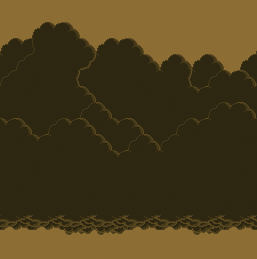
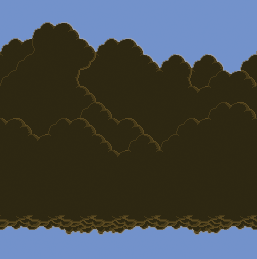
stage 01

diff --git a/app/styles/base.scss b/app/styles/base.scss
@@ -11,7 +11,7 @@ body
 body
 {
   overflow-x: hidden;
-  background: #7392cb;
+  background: rgb(220,160,40);
 }
 
 h1
@@ -32,36 +32,62 @@ h1
   left: 0;
 }
 
+.page {
+top: 0px;
+width: 500px;
+background: white;
+padding: 10px 30px;
+border: 1px #eee solid;
+position: absolute;
+}
+
 /**
   * z-index ordering of the different layers, do this for your layers,
   * also assign absolute width (to prevent issues if the script gets executed before the images get loaded)
   */
-.stage1{
 
-  .clouds
-  {
-    z-index: 2;
-    width: 1500px;
-    background: url('../images/clouds.gif') repeat-x top left;
+  .sky{
+    width: 3000px;
     top: 0;
-  }
+    .clouds{
+      z-index: 2;
+      width: 1500px;
+      height: 250px;
+      position: absolute;
+      border: none;
+    }
+    .clouds{
+      background: url('../images/clouds.png') repeat-x top left;
+      left: 0;
+      width: 3000px;
+    }
+    .sun{
+      background: url('../images/sun.png') no-repeat top left;
+      left: 30%;
+      z-index: 2;
+      width: 1000px;
+      height: 280px;
+      position: fixed;
+      border: none;
+      top: 0;
 
+    }
+  }
 
   .back-ground{
     z-index: 400;
-    width: 1500px;
-    background: url('../images/back-ground.png') repeat-x bottom left;
-    bottom: 0;
-    height: 263px;
+    width: 3200px;
+    background: url('../images/second-ground.png') repeat-x bottom left;
+    bottom: 100px;
+    height: 363px;
   }
-
 
   .second-ground{
     z-index: 500;
-    width: 2000px;
-    background: url('../images/second-ground.png') repeat-x bottom left;
-    bottom: 0;
-    height: 119px;
+    width: 3000px;
+    background: url('../images/mid-ground.png') repeat-x bottom left;
+    bottom: 100px;
+    height: 250px;
   }
 
   .floor{
@@ -69,62 +95,22 @@ h1
     width: 2500px;
     background: url('../images/floor.png') repeat-x top left;
     bottom: 0;
-    height: 160px;
+    height: 250px;
   }
 
-  .bowser{
-      z-index: 650;
-      bottom: 10px;
-      right: 150px;
-      width: 2350px;
-      img{
-          float: right;
-      }
-  }
+  .robotin{
+    width: 3000px;
+    bottom: 400px;
+    z-index: 650;
 
-}
+    .robot1{
+      width: 1200px;
+      height: 450px;
+      position: absolute;
+      right: -100px;
+      border: none;
 
+      background: url('../images/robotin_1.png') no-repeat top left;
+    }
 
-.stage2{
-  left: 6000px;
-  background: red;
-
-  .clouds
-  {
-    z-index: 2;
-    width: 1500px;
-    background: url('../images/clouds2.png') repeat-x top left;
-    top: 0;
-  }
-
-
-  .back-ground{
-    z-index: 400;
-    width: 1500px;
-    background: url('../images/back-ground2.png') repeat-x bottom left;
-    bottom: 0;
-    height: 263px;
-  }
-
-
-  .second-ground{
-    z-index: 500;
-    width: 2000px;
-    background: url('../images/second-ground2.png') repeat-x bottom left;
-    bottom: 0;
-    height: 119px;
-  }
-
-  .floor{
-    z-index: 600;
-    width: 2500px;
-    background: url('../images/floor2.png') repeat-x top left;
-    bottom: 0;
-    height: 160px;
-  }
-
-  
-  &.bowser2{
-      left: 50px;
-  }
 }

diff --git a/app/index.html b/app/index.html
@@ -21,23 +21,20 @@
         <!--[if lt IE 10]>
             <p class="browsehappy">You are using an <strong>outdated</strong> browser. Please <a href="http://browsehappy.com/">upgrade your browser</a> to improve your experience.</p>
         <![endif]-->
+            <div class="sky scroll">
+                <div class="sun scroll"></div>
+                <div class="clouds page"></div>
+                <!-- <div class="clouds2 page"></div> -->
+            </div>
 
-        <div class="stage1 ">
-            <div class="clouds scroll"></div>
+            
+
             <div class="back-ground scroll"></div>
             <div class="second-ground scroll"></div>
             <div class="floor scroll"></div>
-            <div class="bowser scroll move-jump-move"><img src="images/bowser.png" alt="bowser"></div>
-        </div>
-
-        <div class="stage2 scroll">
-            <div class="clouds scroll"></div>
-            <div class="back-ground scroll"></div>
-            <div class="second-ground scroll"></div>
-            <div class="floor scroll"></div>
-
-            <div class="bowser2 "><img src="images/bowser.png" alt="bowser"></div>
-        </div>
+            <div class="robotin scroll ">
+                <div class="robot1 page"></div>
+            </div>
 
 
 

diff --git a/app/scripts/main.js b/app/scripts/main.js
@@ -1,9 +1,9 @@
 (function($) {
     $.jInvertScroll(['.scroll'],        // an array containing the selector(s) for the elements you want to animate
         {
-        height: 12000,                   // optional: define the height the user can scroll, otherwise the overall length will be taken as scrollable height
+        height: 3000,                   // optional: define the height the user can scroll, otherwise the overall length will be taken as scrollable height
         onScroll: function(percent) {   //optional: callback function that will be called when the user scrolls down, useful for animating other things on the page
-            console.log(percent);
+            // console.log(percent);
         }
     });
 }(jQuery));
